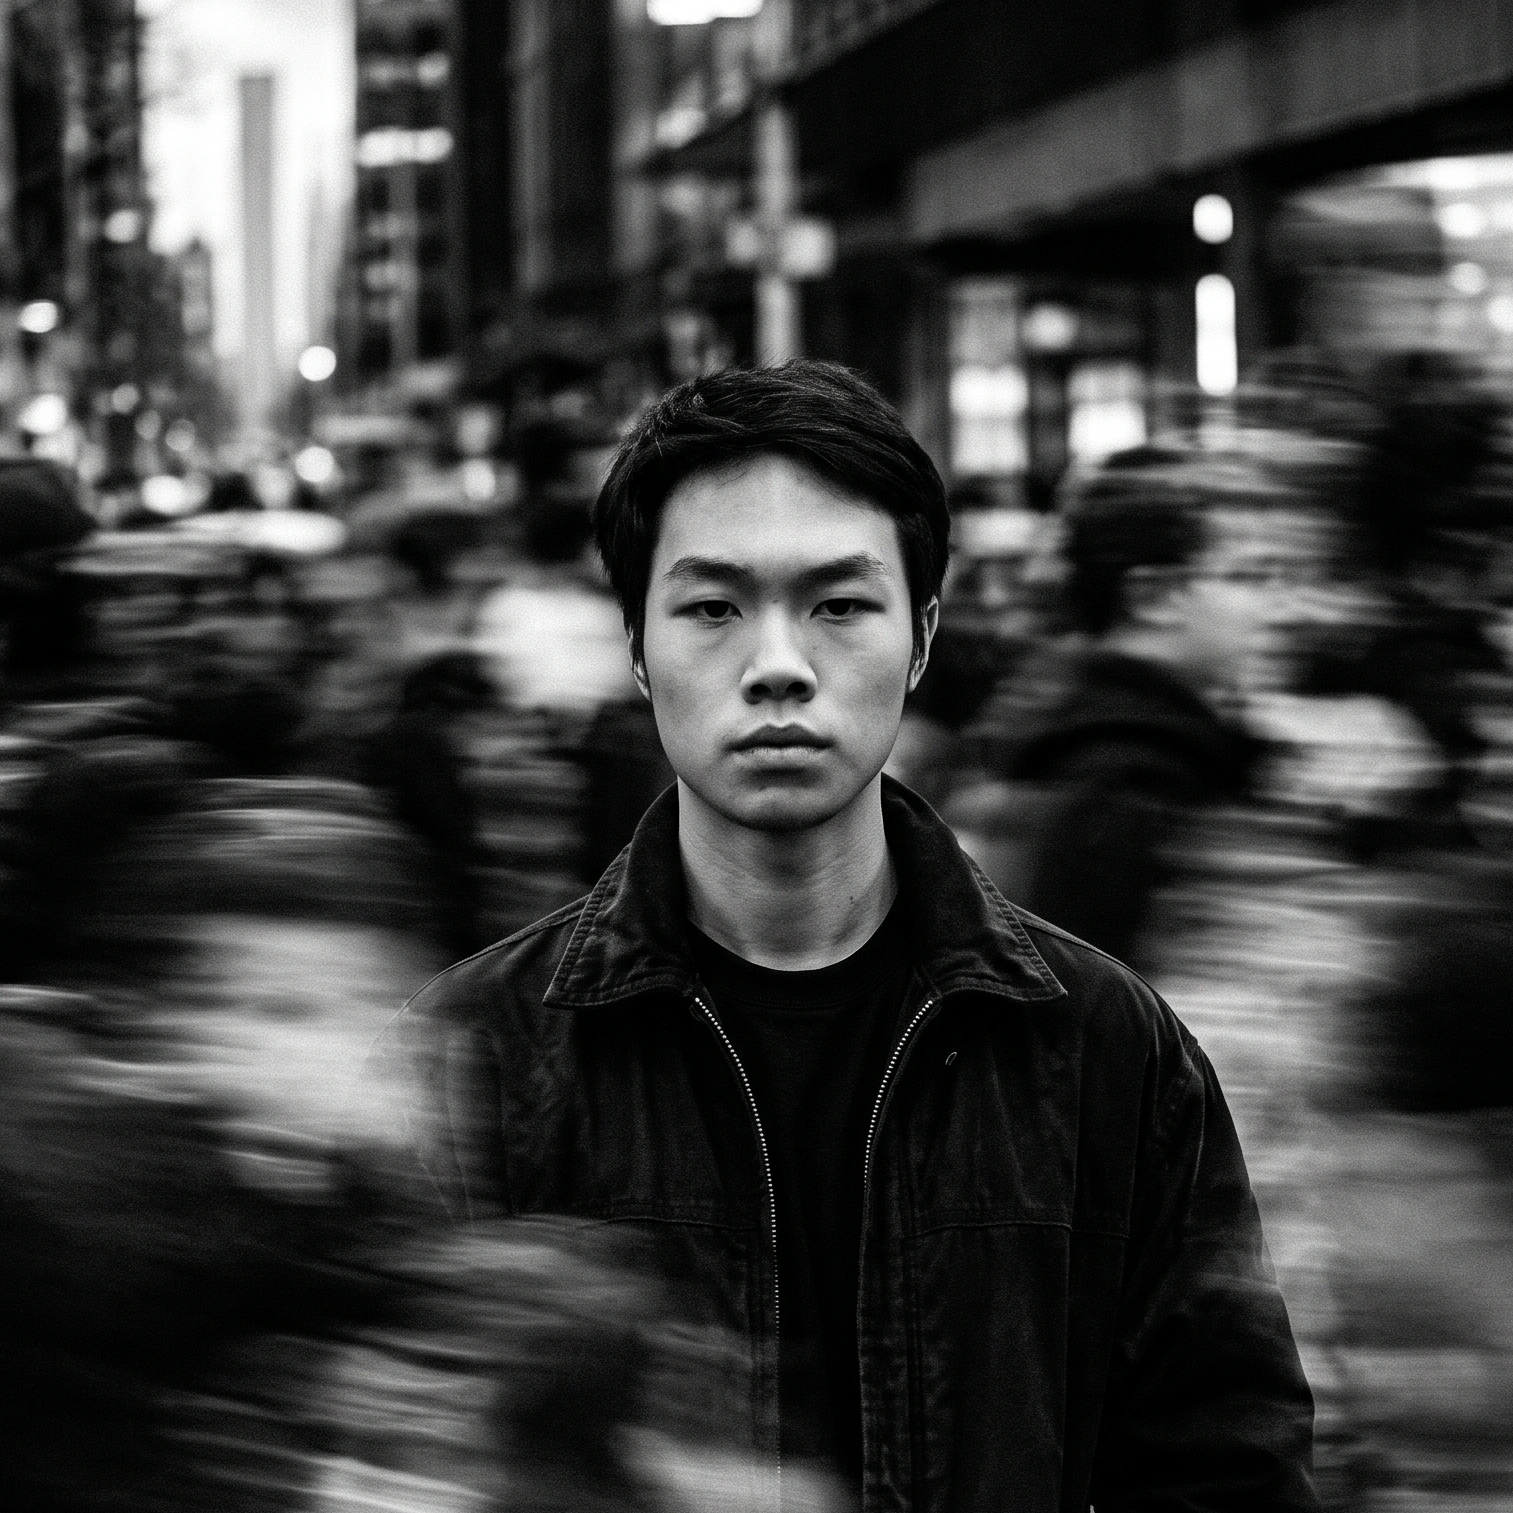
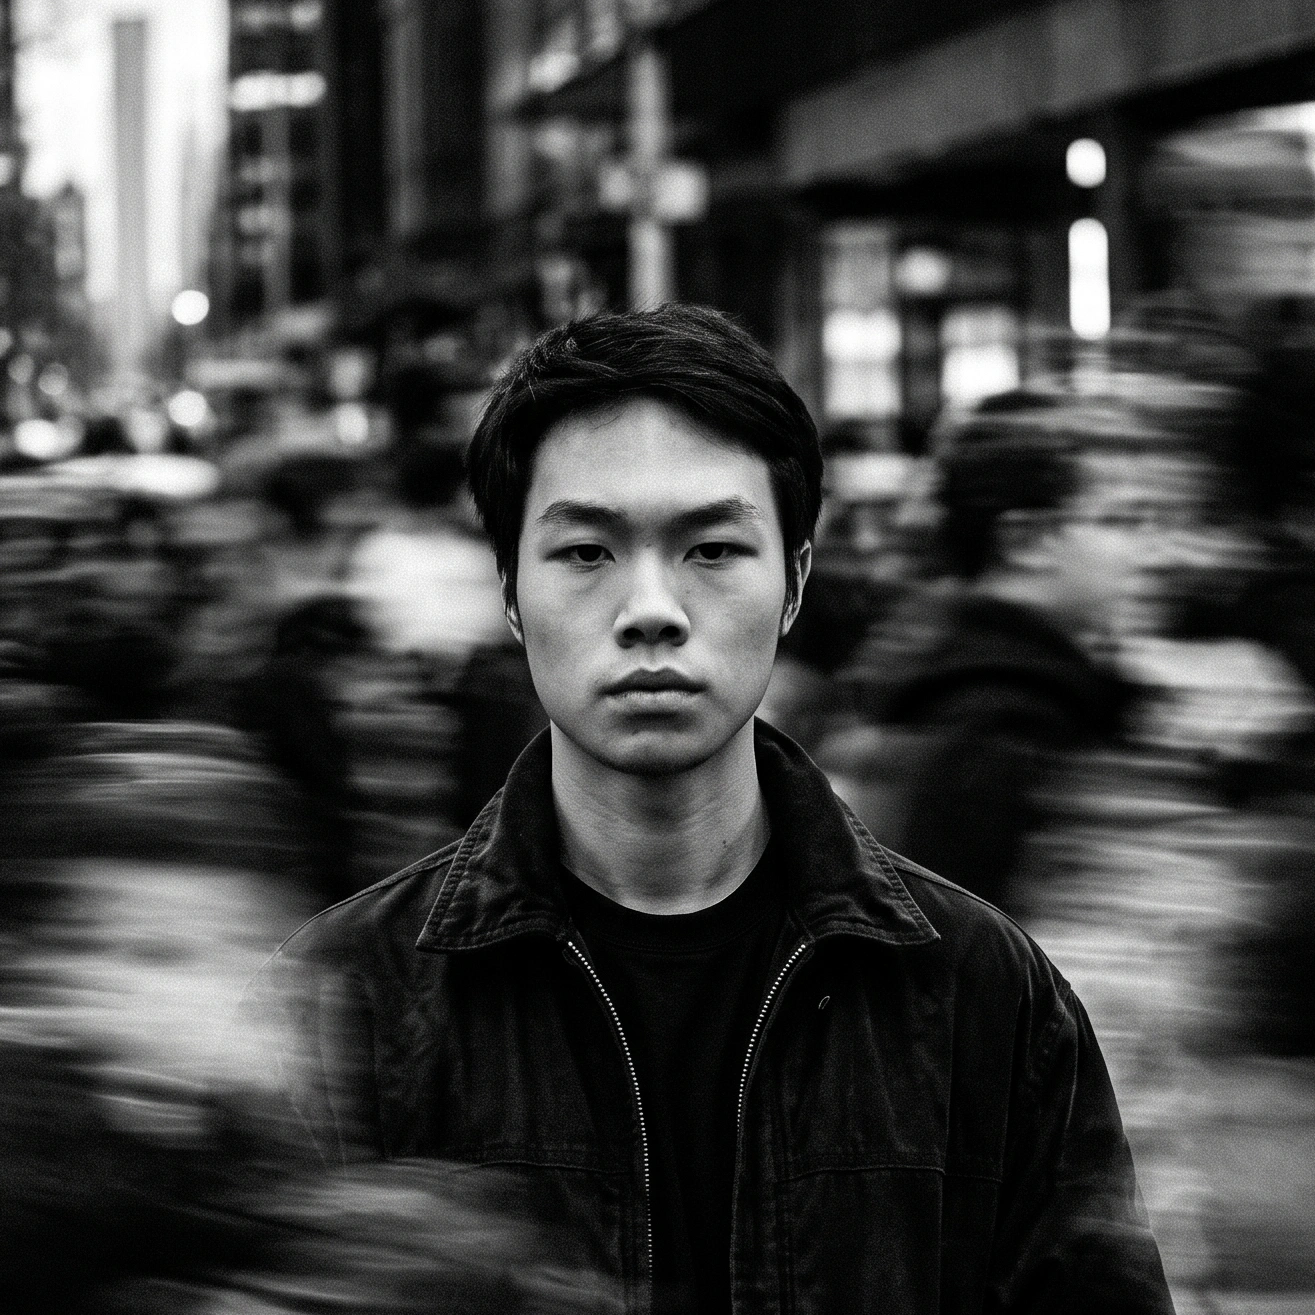
fix: adjust responsive styles and sizes for profile image and annotations

diff --git a/src/app/(home)/_sections/hero/Photo.tsx b/src/app/(home)/_sections/hero/Photo.tsx
@@ -49,36 +49,36 @@ export const Photo = () => {
       className="relative"
     >
       <div className="relative overflow-hidden rounded-lg">
-        <div className="relative aspect-square w-72 lg:w-80 xl:w-96">
+        <div className="relative aspect-square w-72 sm:w-80 lg:w-86 xl:w-96">
           <Image
             src={"/profile.webp"}
             alt="Naing Htet Linn profile picture"
             fill
             priority
             fetchPriority="high"
-            sizes="(max-width: 1024px) 288px, (max-width: 1280px) 320px, 384px"
+            sizes="(max-width: 640px) 320px, (max-width: 1024px) 344px, (max-width: 1280px) 384px, 450px"
             className="object-cover"
           />
         </div>
 
-        <div className="absolute top-16 right-2 lg:top-18 xl:top-22 xl:right-4">
+        <div className="absolute top-18 right-2 sm:top-21 md:top-19 lg:top-19 xl:top-23 xl:right-4">
           <span className="bg-primary text-primary-foreground block rotate-6 rounded px-1.5 py-0.5 text-xs font-medium text-wrap">
             Serious Eyes
           </span>
         </div>
 
-        <div className="absolute top-18 right-14 md:right-14 lg:top-21 lg:right-13 xl:top-26 xl:right-14">
-          <ArrowIcon className="w-12 scale-x-[-1] -rotate-180 lg:w-16 xl:w-20" />
+        <div className="absolute top-20 right-14 sm:top-23 md:right-12 lg:top-24 xl:top-28 xl:right-14">
+          <ArrowIcon className="w-12 scale-x-[-1] -rotate-180 sm:w-14 md:w-16 lg:w-18 xl:w-20" />
         </div>
 
-        <div className="absolute top-33 left-2 lg:top-36 lg:left-4 xl:top-42 xl:left-8">
+        <div className="absolute top-35 left-2 sm:top-40 sm:left-4 md:top-38 lg:top-39 lg:left-4 xl:top-44 xl:left-8">
           <span className="bg-primary text-primary-foreground block -rotate-8 rounded px-1.5 py-0.5 text-xs font-medium text-wrap">
             Dev Jacket
           </span>
         </div>
 
-        <div className="absolute top-36 left-12 lg:top-40 xl:top-48 xl:left-14">
-          <ArrowIcon className="w-12 -rotate-160 lg:w-16 xl:w-20" />
+        <div className="absolute top-38 left-12 sm:top-44 md:left-10 lg:top-46 xl:top-52 xl:left-14">
+          <ArrowIcon className="w-12 -rotate-160 sm:w-14 md:w-16 lg:w-18 xl:w-20" />
         </div>
       </div>
     </motion.div>
